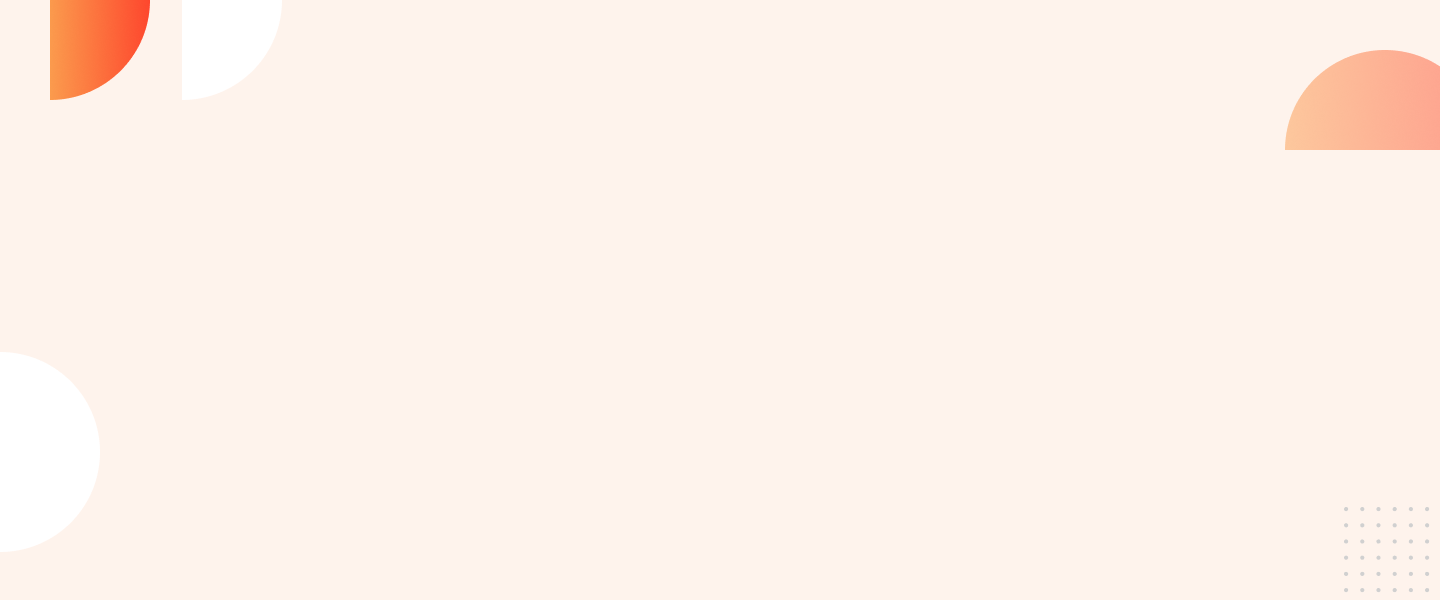
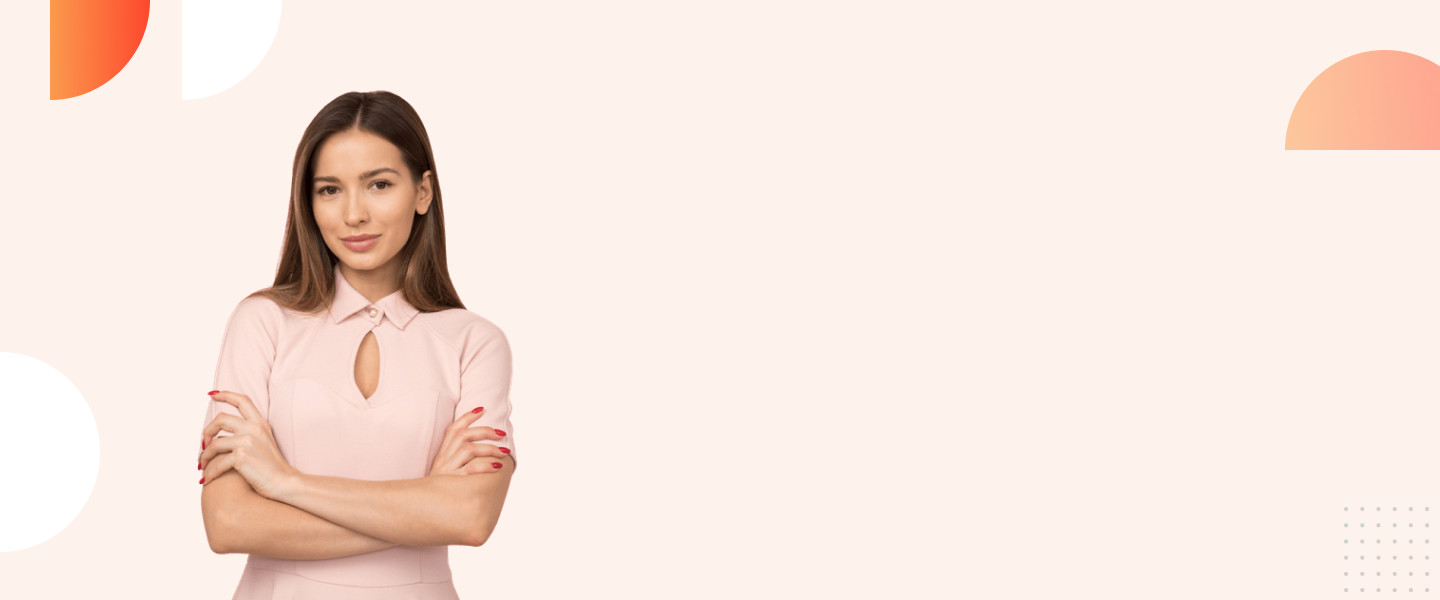
complete about section

Changed region(s): [[0.125, 0.15, 0.375, 1.0]]

diff --git a/style.css b/style.css
@@ -6,7 +6,9 @@ body {
 h1 {
     font-size: 60px;
 }
-
+h2{
+    font-size: 35px;
+}
 .skip {
     color: orange;
 }
@@ -49,4 +51,27 @@ h1 {
     border-radius: 500px;
     padding: 20px 40px;
     line-height: 4;
+}
+.about-bg{
+    background-image: url(images/about-bg.jpg);
+    background-repeat: no-repeat;
+    height: 600px;
+    margin-top: 100px;
+    display: flex;
+}
+.about-right{
+    padding-left: 700px;
+    padding-top: 100px;
+    text-align: justify;
+}
+.about-text{
+    padding-right: 220px;
+}
+.banner-btn-2{
+    text-decoration: none;
+    background-image: linear-gradient(orange, tomato);
+    color: white;
+    border-radius: 500px;
+    padding: 20px 40px;
+    line-height: 8;
 }

diff --git a/index.html b/index.html
@@ -24,7 +24,16 @@
         <div class="banner-bg half-width">
             <img src="images/female/Group 8425.png" alt="">
         </div>
+    </section>
 
+    <section class="about-bg">
+        <div class="about-right">
+            <h2>About Me</h1>
+            <p class="about-text">Lorem ipsum dolor sit amet, consectetur adipiscing 
+                elit. Condimentum diam orci pretium a pharetra, 
+                feugiat cursus. Dictumst risus, sem egestas odio cras adipiscing vulputate. Nisi, risus in suscipit non. Non commodo volutpat, pharetra, vel</p>
+                <a href="" class="banner-btn-2">Contact me</a>
+        </div>
     </section>
 </body>
 
